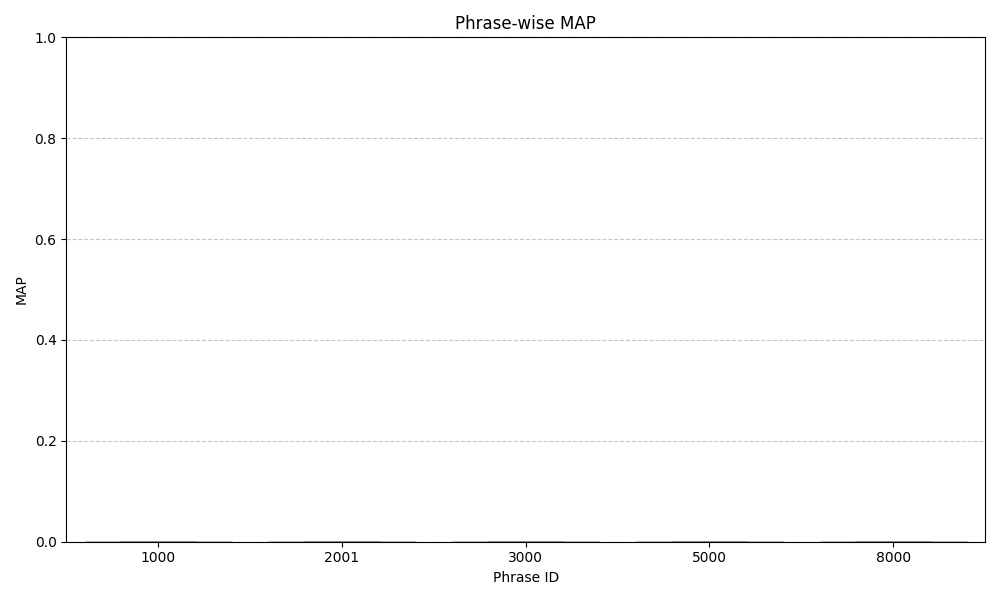
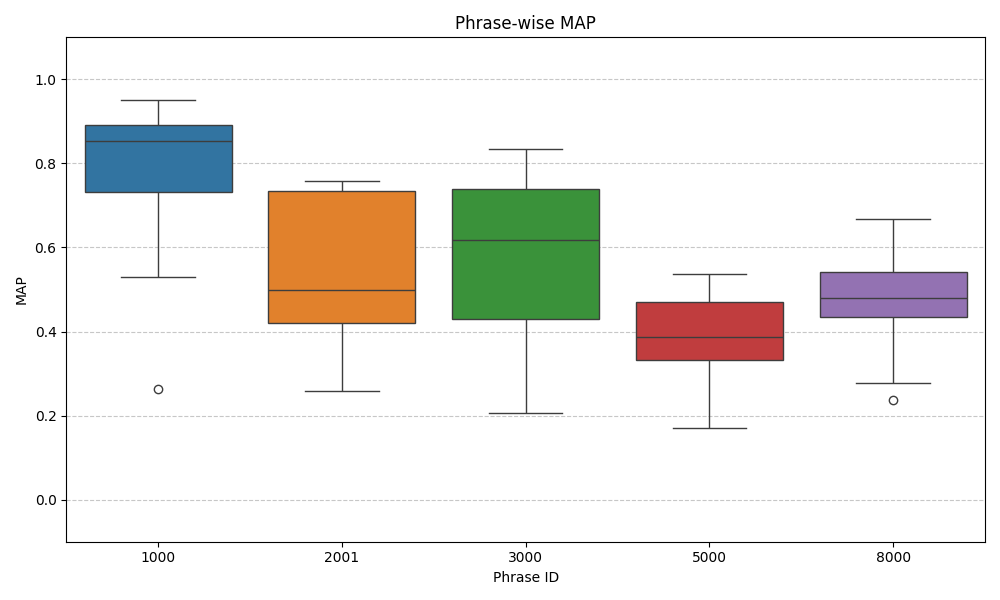
normalization

diff --git a/src/pattern/modules/evaluator.py b/src/pattern/modules/evaluator.py
@@ -45,8 +45,7 @@ class Evaluator:
                     y_loader = torch.utils.data.DataLoader(Dataset((np.array([y_chunks[k]])), self.device), batch_size=1, shuffle=False, num_workers=0)
                     x_embedding = self.embedder(x_loader)
                     y_embedding = self.embedder(y_loader)
-                    #similarities.append(cosine_similarity(x_embedding, y_embedding)[0][0])
-                    similarities.append(1 / np.linalg.norm(x_embedding - y_embedding))
+                    similarities.append(cosine_similarity(x_embedding, y_embedding)[0][0])
 
                 similarity_matrix[i][j] = np.mean(similarities)
 
@@ -115,7 +114,7 @@ class Evaluator:
         plt.xlabel("Phrase ID")
         plt.ylabel(f"{metric}")
         plt.title(f"Phrase-wise {metric}")
-        plt.ylim(0, 1)
+        plt.ylim(-0.1, 1.1)
         plt.tight_layout()
         plt.grid(axis='y', linestyle='--', alpha=0.7)
         os.makedirs('results', exist_ok=True)

diff --git a/src/pattern/__main__.py b/src/pattern/__main__.py
@@ -4,15 +4,14 @@ import pickle
 import torch
 from logger import Logger
 
-from pattern import Model, Evaluator, Embedder, Table
+from pattern import Model, Evaluator, Embedder, Table, load_pitch
 
 def main():
     device = torch.device("cuda" if torch.cuda.is_available() else "cpu")
     logger = Logger(log_dir="logs")
     args = parse_args()
 
-    with open(os.path.join("dataset", "segments.pkl"), "rb") as f:
-        sequences = pickle.load(f)
+    sequences = load_pitch(os.path.join("dataset", "segments.pkl"))
     with open(os.path.join("dataset", "ids.pkl"), "rb") as f:
         labels = torch.tensor(pickle.load(f)).to(device)
 

diff --git a/src/pattern/modules/utils.py b/src/pattern/modules/utils.py
@@ -1,0 +1,16 @@
+import numpy as np
+import pickle
+
+def load_pitch(file_path):
+    with open(file_path, "rb") as f:
+        data = pickle.load(f)
+
+    normalized_data = normalize(data)
+    return normalized_data
+
+def normalize(data, range_min=-4200, range_max=4200):
+    normalized_data = []
+    for sample in data:
+        normalized_sample = (sample - range_min) / (range_max - range_min)
+        normalized_data.append(normalized_sample)
+    return normalized_data

diff --git a/src/pattern/__init__.py b/src/pattern/__init__.py
@@ -18,5 +18,6 @@ from .modules.evaluator import Evaluator
 from .modules.embedder import Embedder
 from .modules.dataset import Dataset
 from .modules.table import Table
+from .modules.utils import load_pitch
 
-__all__ = ["Model", "Encoder", "Evaluator", "Embedder", "Dataset", "Table"]
+__all__ = ["Model", "Encoder", "Evaluator", "Embedder", "Dataset", "Table", "load_pitch"]

diff --git a/src/pattern/model/model.py b/src/pattern/model/model.py
@@ -15,7 +15,7 @@ class Model(nn.Module):
     def forward(self, input):
         embedding = self.encoder(input)
         embedding = self.gap(embedding)
-        #embedding = F.normalize(embedding, p=2, dim=1)
+        embedding = F.normalize(embedding, p=2, dim=1)
         return embedding.squeeze(-1)
 
     def save(self, filename):
